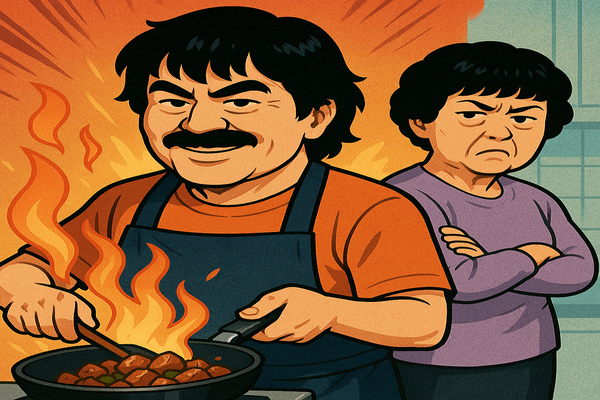
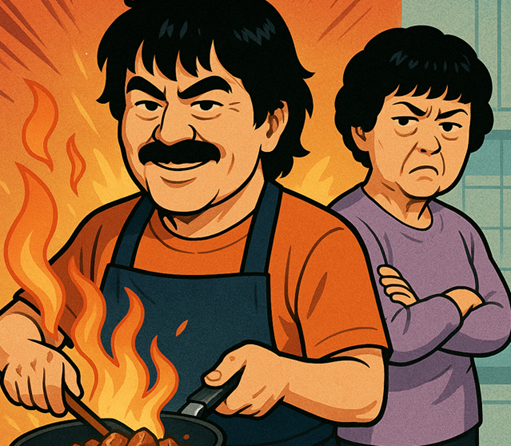
Update main_title.png and Home.tsx, remove main_title.webp

diff --git a/src/pages/Home.tsx b/src/pages/Home.tsx
@@ -30,7 +30,7 @@ const Home: React.FC = () => {
             src="/image/main_title.png"
             alt="메인 타이틀"
             className="w-full max-w-3xl mb-6 drop-shadow-2xl rounded-xl border border-white/40 bg-white/30 object-cover transition-all duration-300"
-            style={{ objectFit: 'cover', width: '100%', height: '300px', minHeight: '200px', maxHeight: '400px' }}
+            style={{ objectFit: 'cover', width: '100%', height: '270px', minHeight: '180px', maxHeight: '360px' }}
           />
           {/* QR코드 및 안내문구 (타이틀 이미지 바로 아래) */}
           <div className="flex flex-col items-center mb-4">
